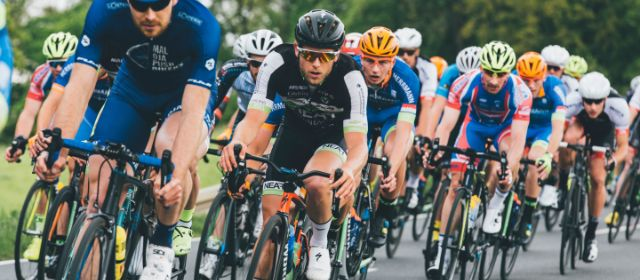
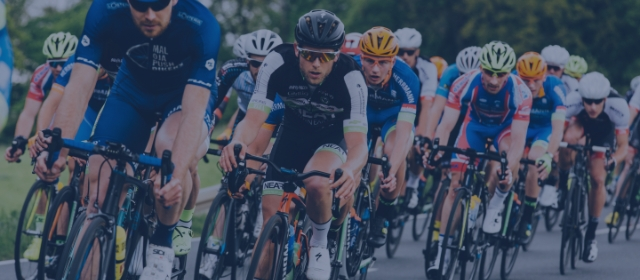
Add files via upload

diff --git a/produtos.html b/produtos.html
@@ -1,0 +1,123 @@
+<!DOCTYPE html>
+<html lang="pt-br">
+
+<head>
+  <meta charset="UTF-8">
+  <meta name="viewport" content="width=device-width, initial-scale=1.0">
+  <title>Magrelinhas - Sobre</title>
+  <link rel="stylesheet" href="css/normalize.css">
+  <link rel="stylesheet" href="css/reset.css">
+  <link rel="stylesheet" href="css/grid.css">
+  <link rel="stylesheet" href="css/style.css">
+  <link rel="stylesheet" href="css/produtos.css">
+  <style>
+    @import url('https://fonts.googleapis.com/css2?family=IBM+Plex+Serif:ital,wght@0,100;0,200;0,300;0,400;0,500;0,600;0,700;1,100;1,200;1,300;1,400;1,500;1,600;1,700&display=swap');
+  </style>
+</head>
+
+<body>
+  <!--MENU-->
+  <header class="header">
+    <div class="container">
+      <a href="index.html" class="grid-4"><img src="img/logo-magrelainhas.svg" alt="Loja Magrelinhas"></a>
+      <nav class="grid-12 header_menu">
+        <ul>
+          <li><a href="sobre.html">Sobre</a></li>
+          <li><a class="menu-ativo" href="produtos.html">Produtos</a></li>
+          <li><a href="portfolio.html">Portfolio</a></li>
+          <li><a href="contato.html">Contato</a></li>
+        </ul>
+      </nav>
+    </div>
+  </header>
+  <!--FIM DO MENU-->
+
+  <!--BANNER PRINCIPAL-->
+  <section class="introducao-interna interna-produtos">
+    <div class="container">
+      <h1>Produtos</h1>
+      <p>conheça nossos produtos</p>
+    </div>
+  </section>
+  <!--FIM DO BANNER PRINCIPAL-->
+
+  <!--PRODUTOS-->
+<section class="container produto-item">
+  <div class="grid-11">
+    <img src="img/magrelinha-passeio-1.jpg" alt="">
+    <h2>Passeio</h2>
+  </div>
+
+  <div class="grid-5 produto-icone"><img src="img/bike-passeio.svg" alt=""></div>
+
+  <div class="grid-8"><img src="img/magrelinha-passeio-2.jpg" alt=""></div>
+
+  <div class="grid-8">
+    <p>Praesent malesuada urna nisi, quis volutpat erat hendrerit non. Nam vulputate dapibus. Todo mundo vê os porris que eu tomo, mas ninguém vê os tombis que eu levo!</p>
+  <ul>
+    <li>Conforto</li>
+    <li>Velocidade</li>
+    <li>Design</li>
+    <li>Versatilidade</li>
+  </ul>
+  </div>
+</section>
+  <!--FIM PRODUTOS-->
+
+  <!-- SEÇÃO QUEBRA -->
+
+  <section class="quebra">
+    <blockquote class="quote-externo container">
+      <p>"O verdadeiro segredo da felicidade está em ter um genuíno
+        interesse por todos os detalhes da vida humana"</p>
+      <cite>WILLIAM MORRIS</cite>
+    </blockquote>
+  </section>
+
+  <!-- FIM DA SEÇÃO QUEBRA -->
+
+  <!-- SEÇÃO FOOTER -->
+
+  <footer>
+    <div class="footer">
+      <div class="container">
+
+        <div class="grid-8 footer-historia">
+          <h3 class="">Nossa História</h3>
+          <p>Leite de capivaris, leite de mula manquis sem cabeça. Sapien in monti palavris qui num significa nadis i pareci latim.</p>
+        </div>
+
+        <div class="grid-4 footer-contato">
+          <h3>Contato</h3>
+          <ul>
+            <li>71 9999-9999</li>
+            <li>contato@magrelinhas.com</li>
+            <li>Salvador-BA</li>
+          </ul>
+        </div>
+
+        <div class="grid-4 footer-redes">
+          <h3>Redes Sociais</h3>
+          <ul>
+            <li><a href="#" target="_blank"><img src="img/instagram-footer.svg" alt=""></a></li>
+            <li><a href="#" target="_blank"><img src="img/face-footer.svg" alt=""></a></li>
+            <li><a href="#" target="_blank"><img src="img/linkedin-footer.svg" alt=""></a></li>
+          </ul>
+        </div>
+
+      </div>
+    </div>
+
+    <div class="copy">
+      <div class="container">
+        <p class="grid-16">Magrelinhas 2021 - Todos os direitos reservados.</p>
+      </div>
+    </div>
+
+  </footer>
+
+
+
+</body>
+
+</html>

diff --git a/css/produtos.css b/css/produtos.css
@@ -1,0 +1,38 @@
+.interna-produtos {
+  background: url("../img/bg-produtos.jpg") no-repeat center;
+  background-size: cover;
+}
+
+.produto-item {
+  padding-top: 60px;
+}
+
+.produto-item h2 {
+  font-size: 36px;
+  text-transform: uppercase;
+  letter-spacing: 0.1em;
+  font-weight: bold;
+  color: #ffffff;
+  position: relative;
+  top: -180px;
+  text-align: center;
+  margin-bottom: -50px;
+}
+
+.produto-item h2:after, .produto-item h2:before{
+content: "";
+display: block;
+width: 60px;
+height: 3px;
+background:  #fda940;
+margin: 6px auto 6px auto;
+}
+
+.produto-icone {
+  background: #000f1e;
+  padding: 90px 0;
+}
+
+.produto-icone img {
+  margin: 0 auto;
+}

diff --git a/css/style.css b/css/style.css
@@ -177,7 +177,6 @@ img {
   width: 100%;
   height: 160px;
   margin-top: 90px;
-  background-size: cover;
   text-align: center;
   color: #ffffff;
   padding-top: 30px;

diff --git a/css/sobre.css b/css/sobre.css
@@ -1,7 +1,6 @@
 .interna-sobre{
   background: url("../img/bg-sobre.png") no-repeat center;
   background-size: cover;
- 
 }
 
 .missao-sobre{
